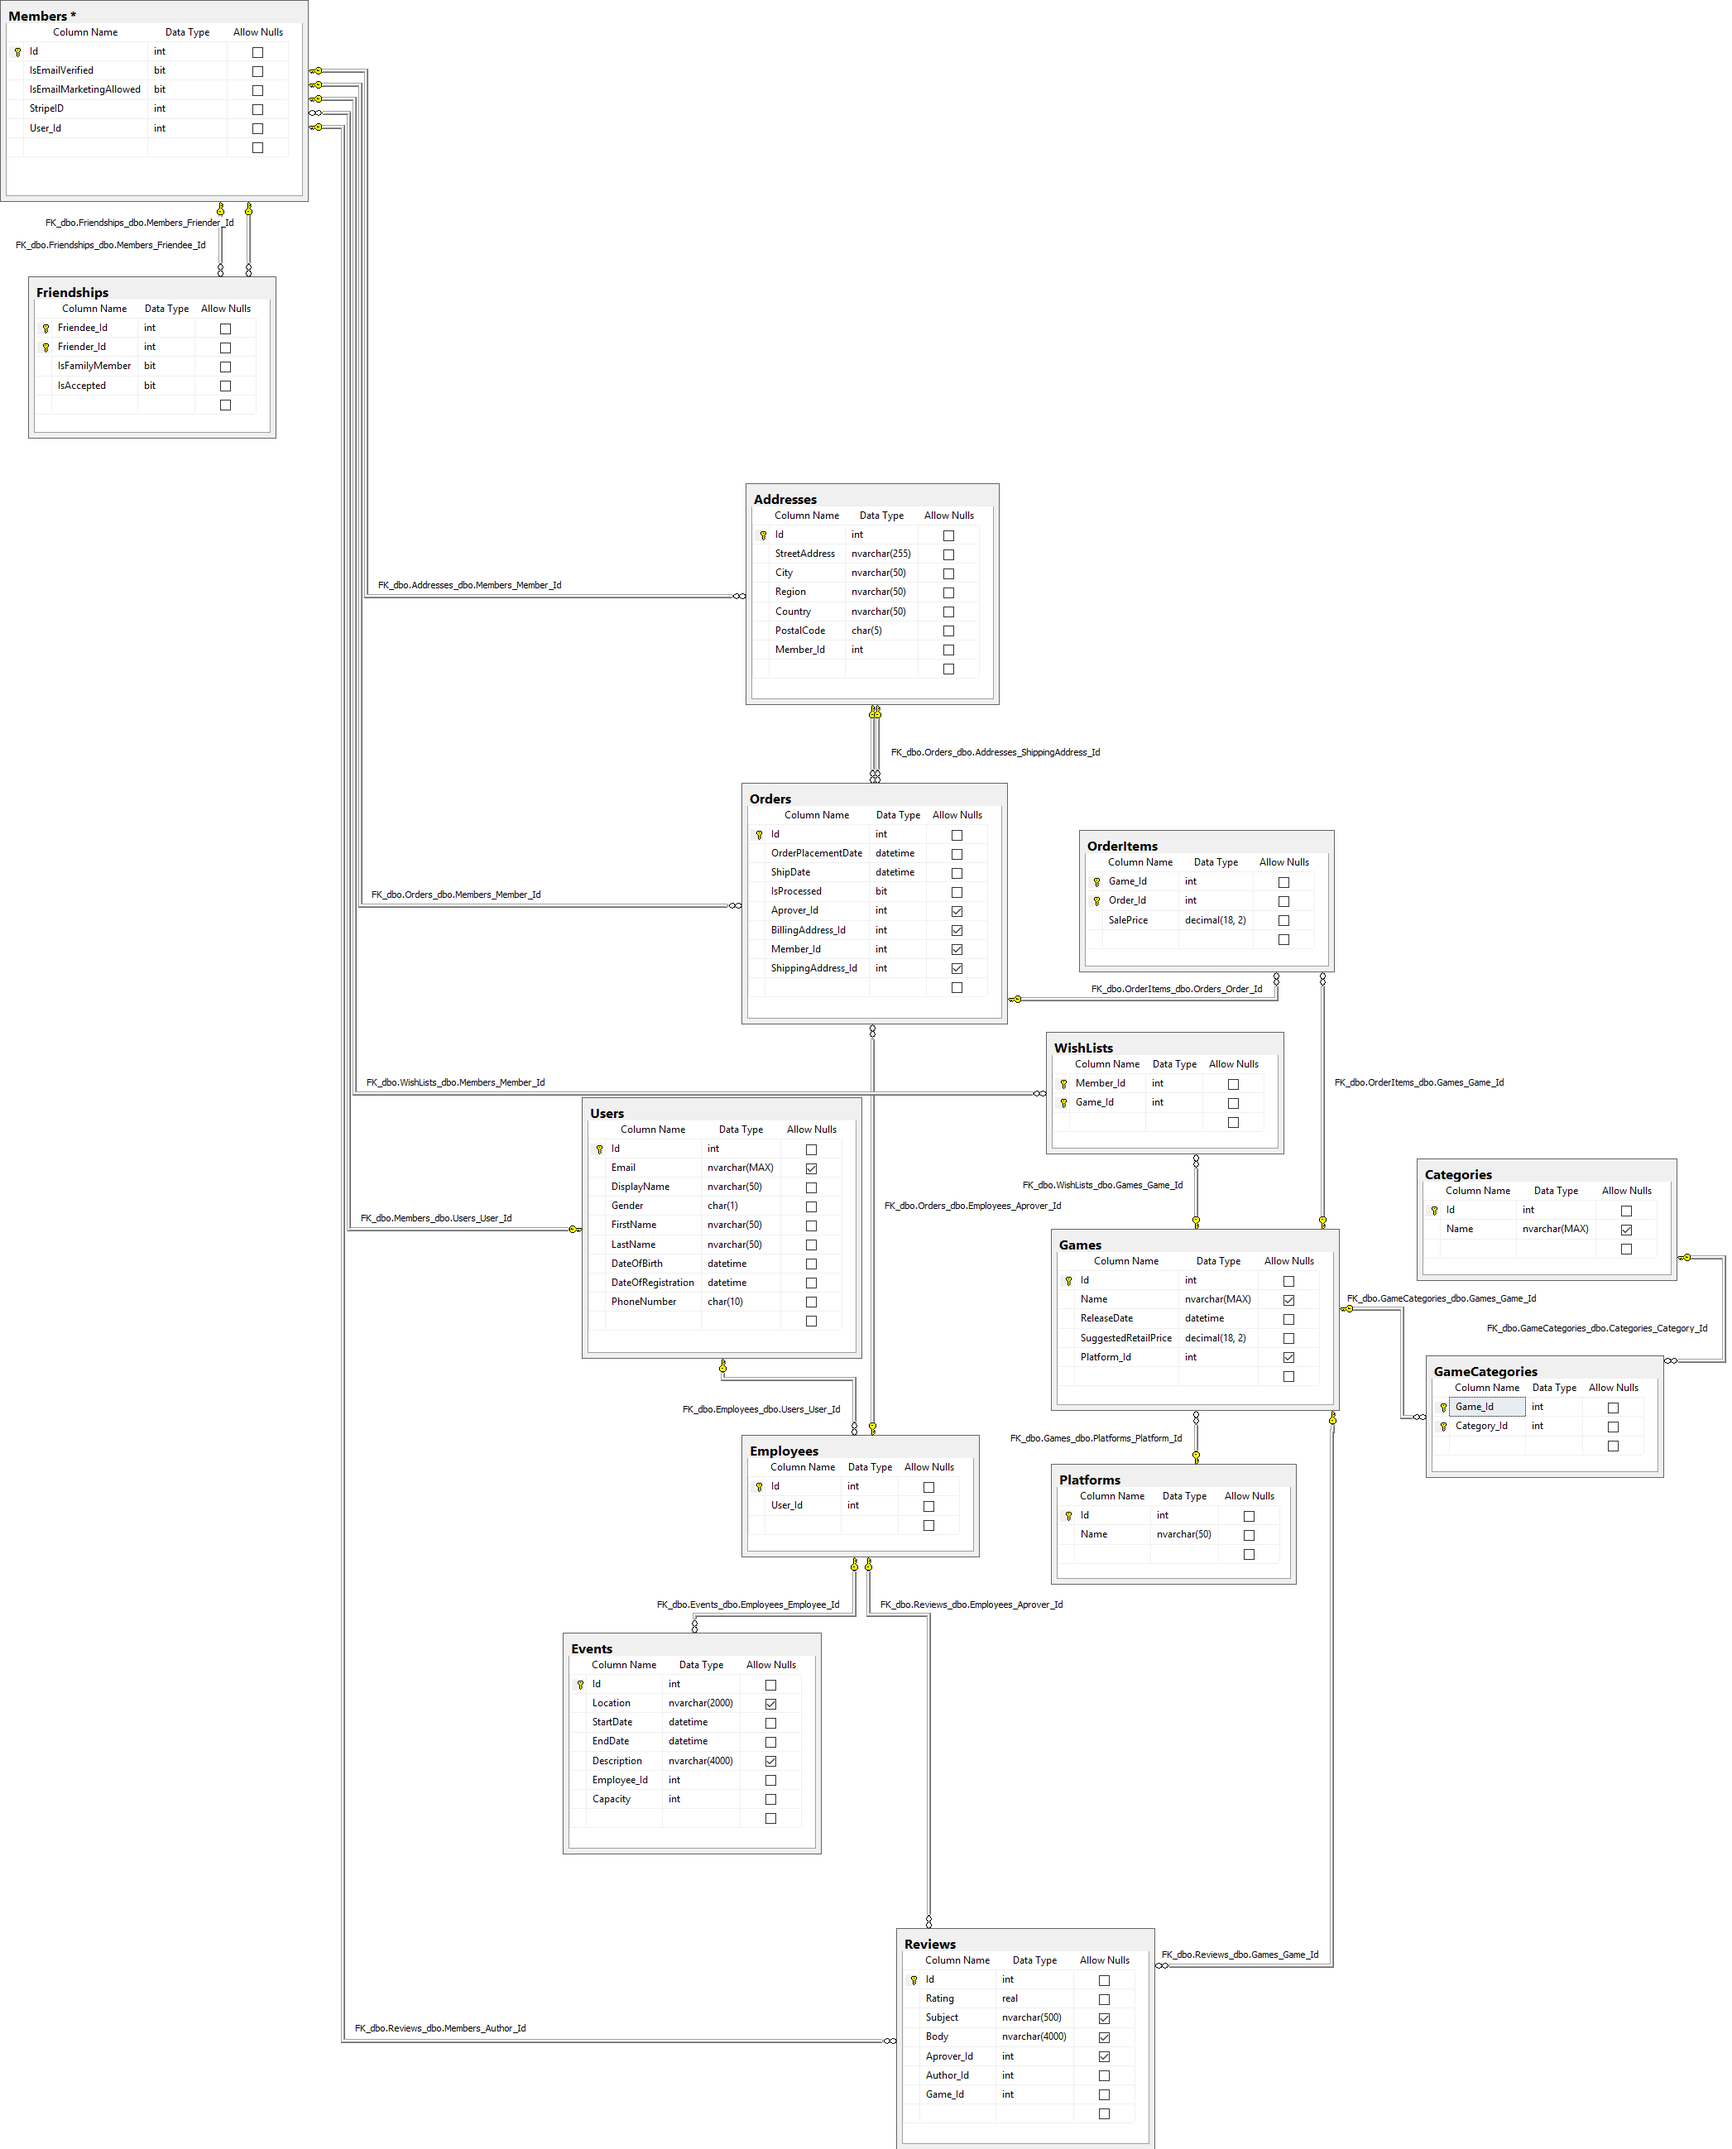
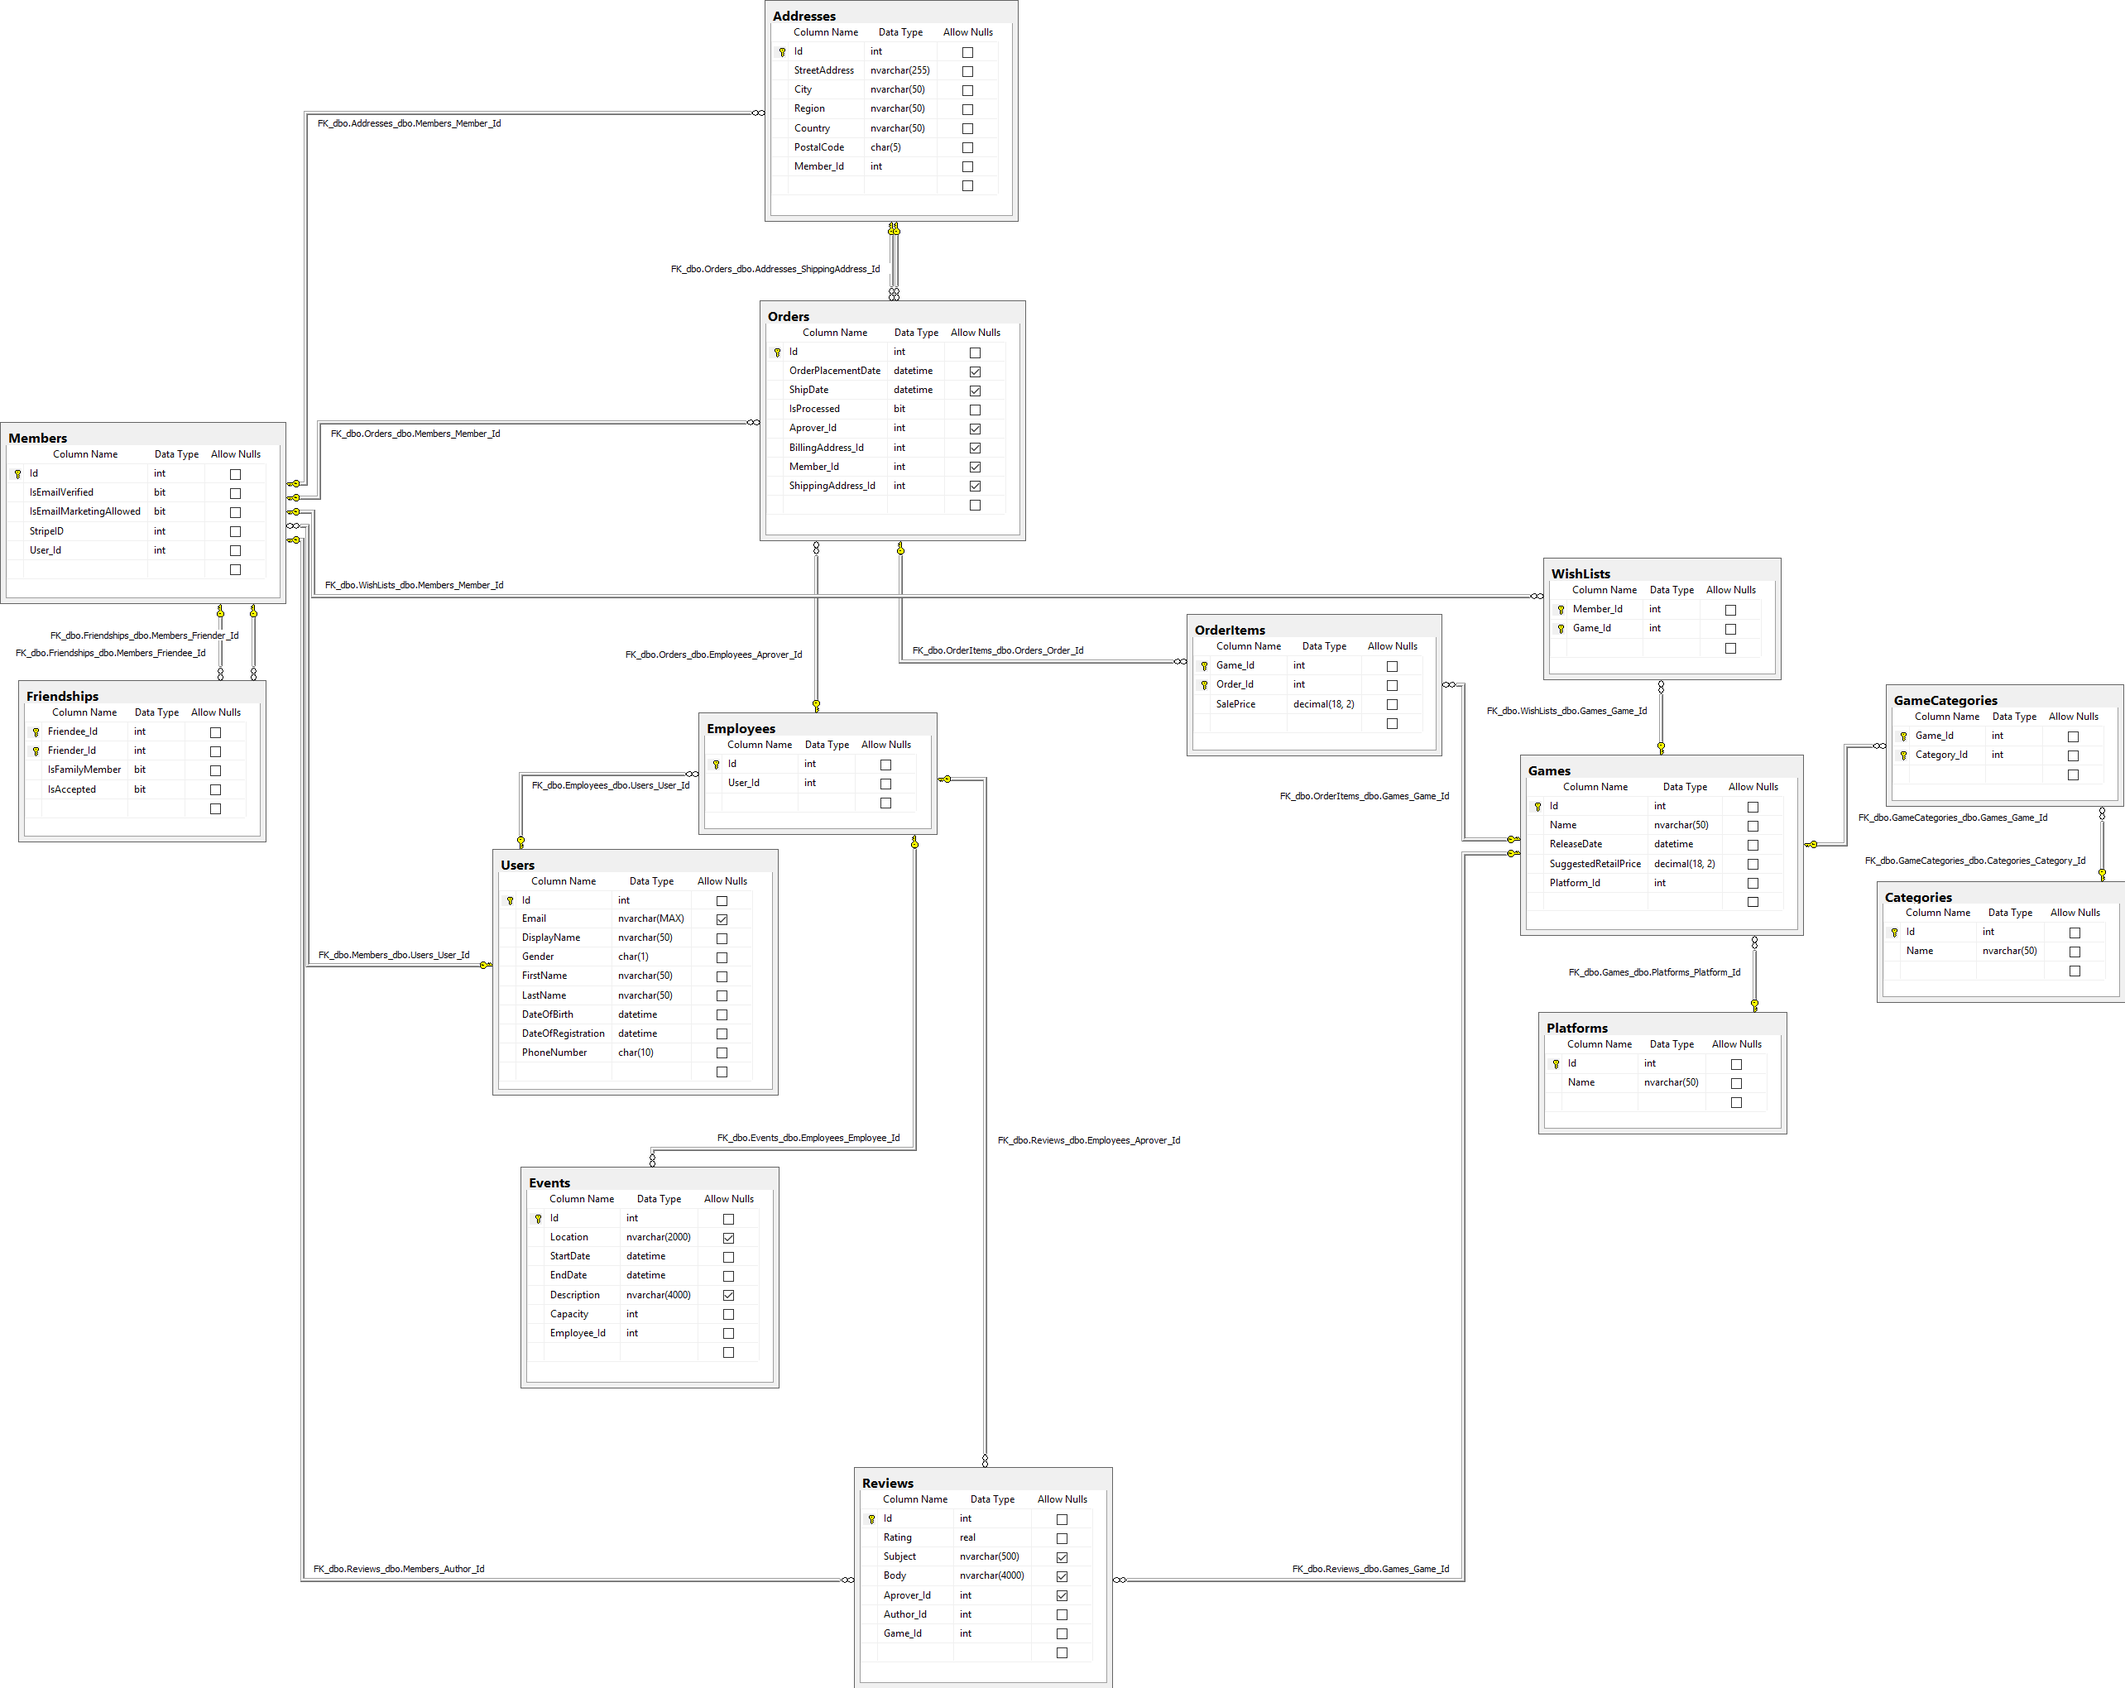
5 More ERD fixes
Required Category name nvarchar50
Required platformid
Required Game Name nvarchar50
Nullable OrderPlacementDate
Nullable ShipDate

diff --git a/ER Diagram/ProjectModel.cs b/ER Diagram/ProjectModel.cs
@@ -95,8 +95,8 @@ namespace LoginExample.Models
         public virtual Address ShippingAddress { get; set; }
         public virtual Member Member { get; set; }
         public virtual Employee Aprover { get; set; }
-        public DateTime OrderPlacementDate { get; set; }
-        public DateTime ShipDate { get; set; }
+        public DateTime? OrderPlacementDate { get; set; }
+        public DateTime? ShipDate { get; set; }
         public bool IsProcessed { get; set; }
     }
 
@@ -125,11 +125,13 @@ namespace LoginExample.Models
     public class Game
     {
         public int Id { get; set; }
+        [Required, MinLength(1), MaxLength(50)]
         public string Name { get; set; }
         public DateTime ReleaseDate { get; set; }
         public decimal SuggestedRetailPrice { get; set; }
         public virtual List<Category> Categories { get; set; }
         public virtual List<Review> Reviews { get; set; }
+        [Required]
         public virtual Platform Platform { get; set; }
         //public virtual List<WishList> WishList { get; set; }
     }
@@ -178,6 +180,7 @@ namespace LoginExample.Models
     {
         [DatabaseGenerated(DatabaseGeneratedOption.Identity), Range(8000, 8999)]
         public int Id { get; set; }
+        [Required, MaxLength(50), MinLength(1)]
         public string Name { get; set; }
         public virtual List<Game> Games { get; set; }
     }
